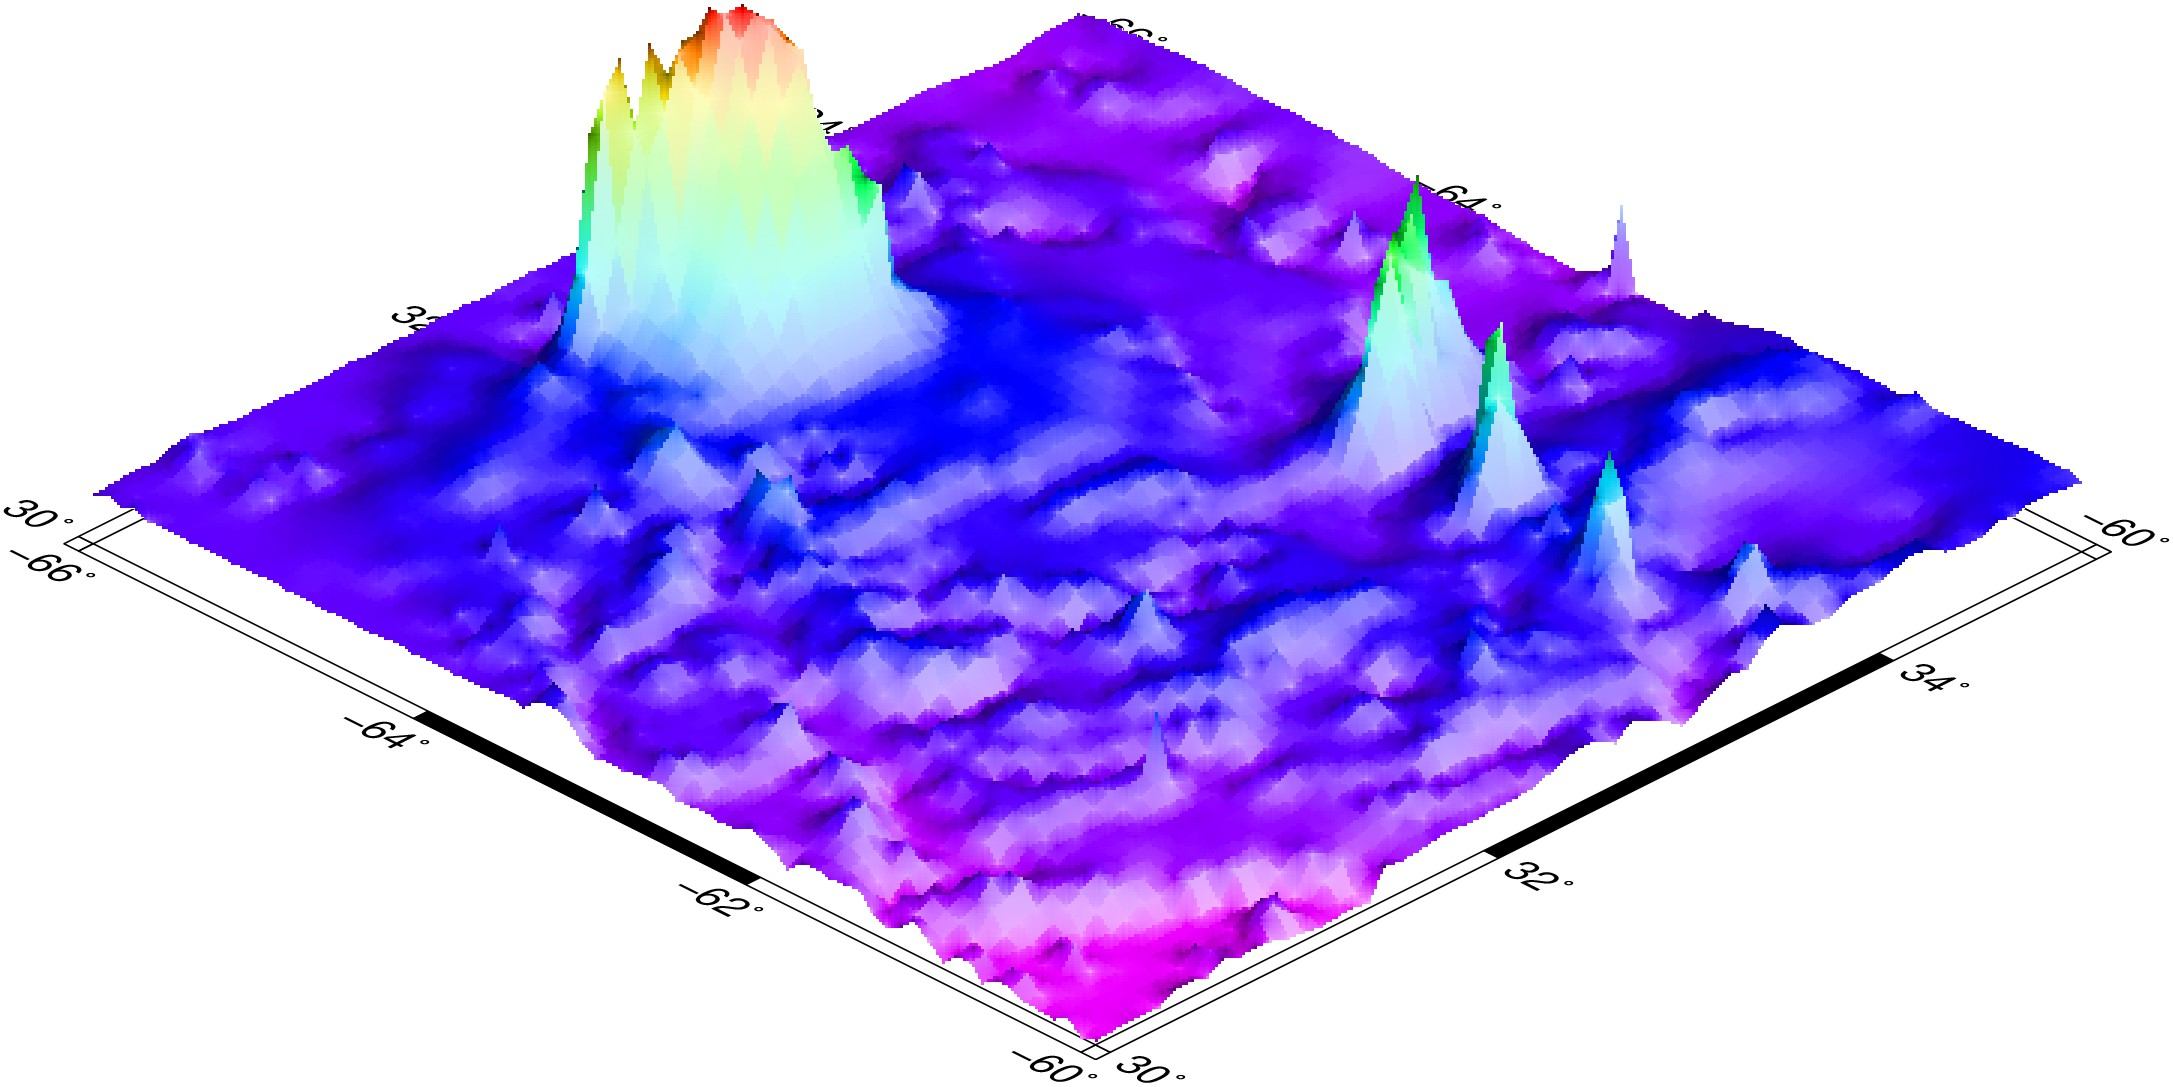
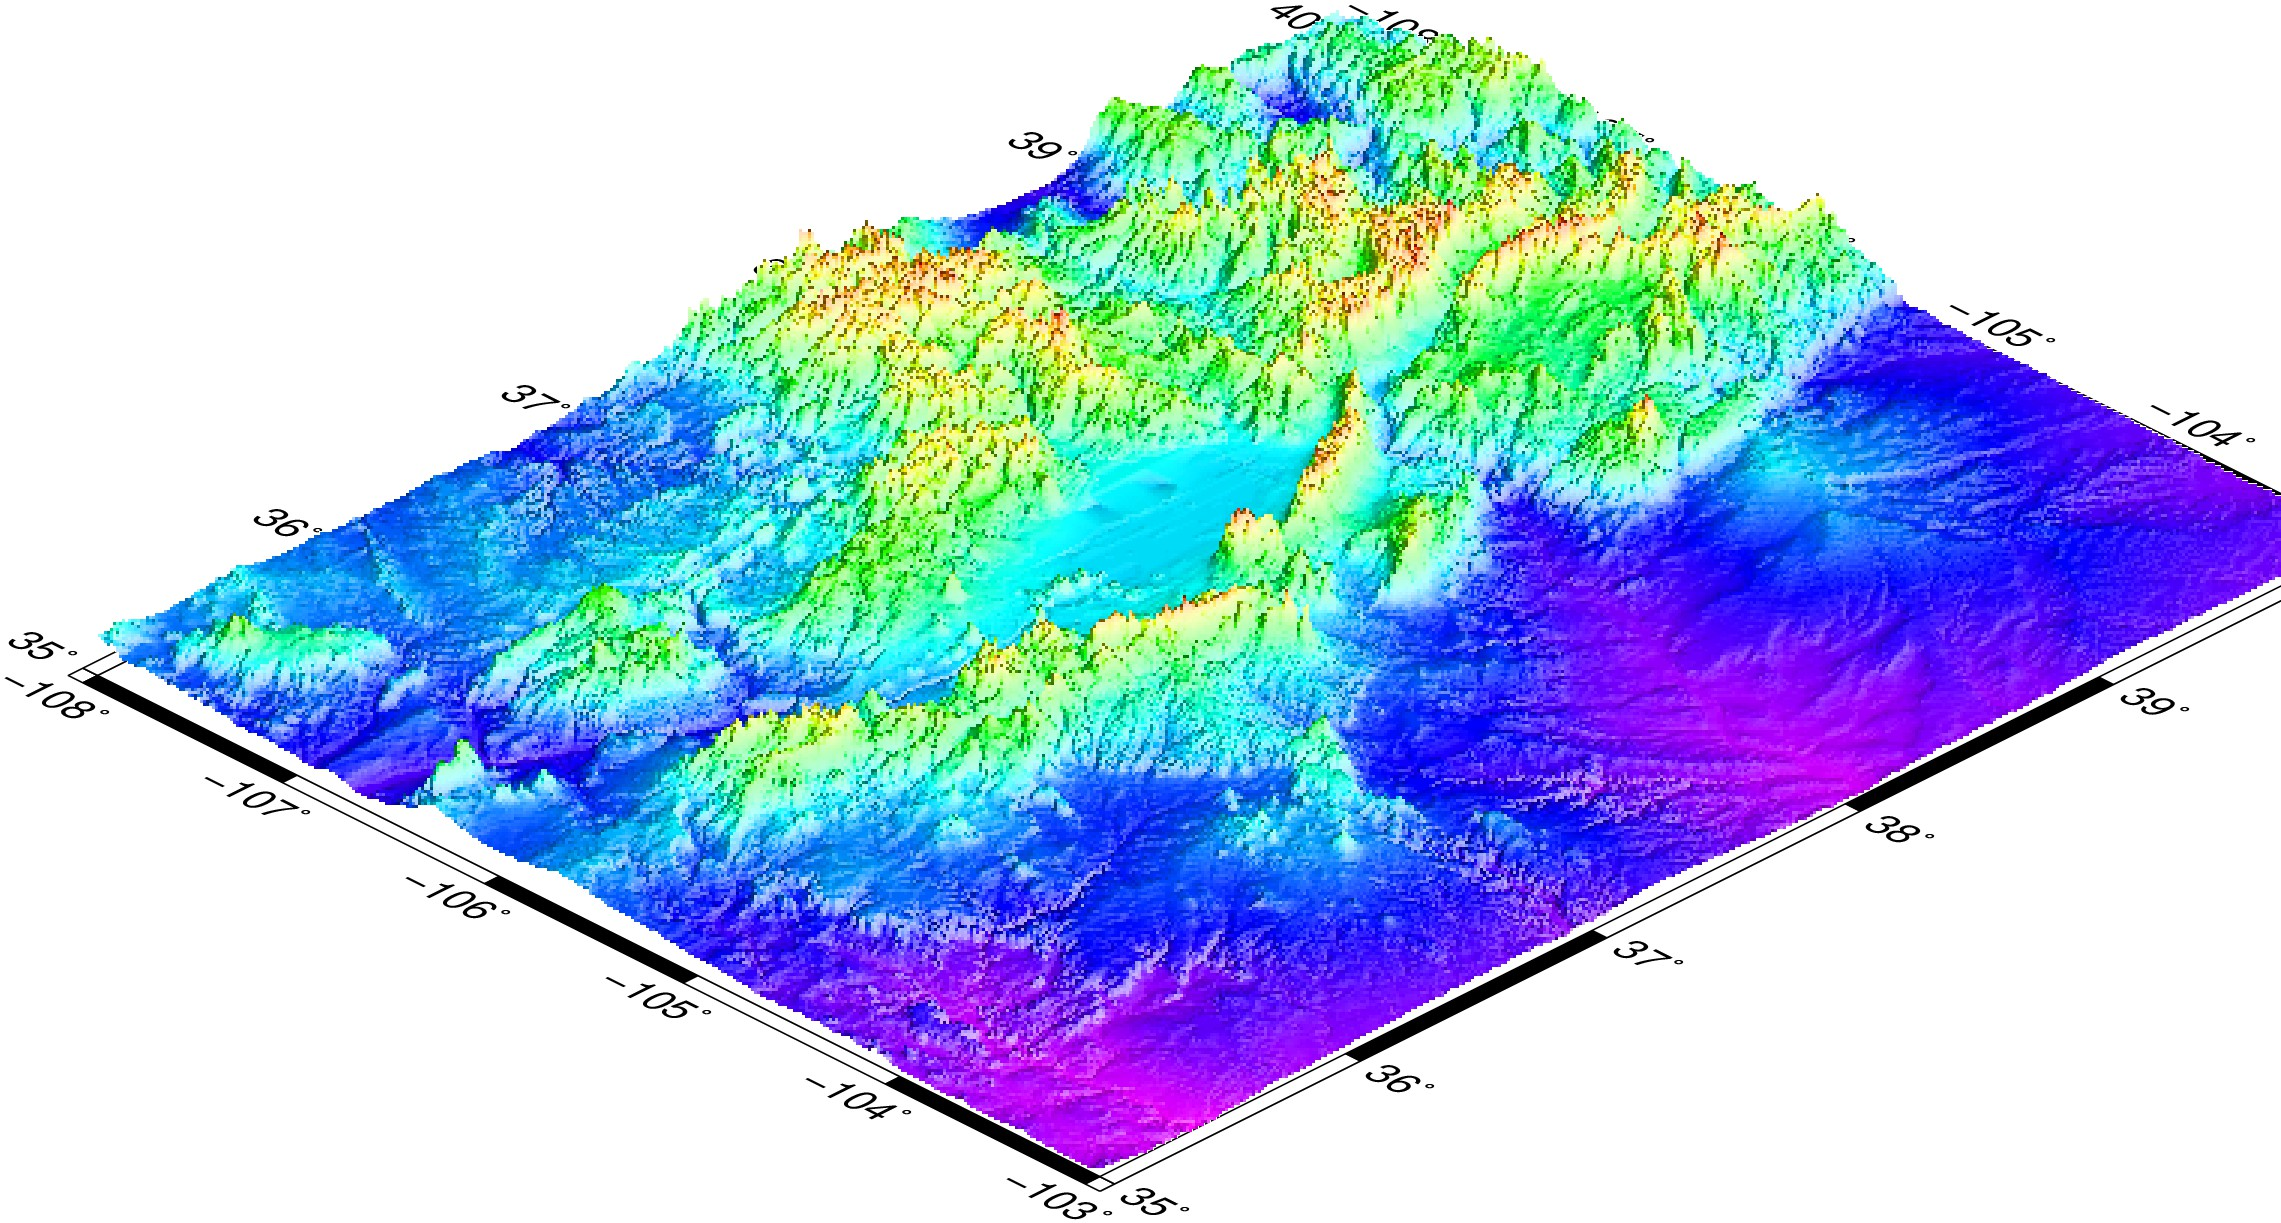
Edit the grdview example

diff --git a/docs/src/examples.md b/docs/src/examples.md
@@ -60,13 +60,10 @@ psscale!(position="jTC+w5i/0.25i+h+o0/-1i", region="@tut_relief.nc", color=topo,
 ## Perspective view
 
 We will make a perspective, color-coded view of the US Rockies from the southeast.
-This plot is pretty crude since we selected 100 dpi but it is fast to render and allows us to try
-alternate values for vantage point and scaling. When we settle on the final values we select
-the appropriate dpi for the final output device and let it rip.
 
 
 ```julia
-grdview(data="@tut_bathy.nc", proj="M12c", JZ="4c", shade="+ne0.8+a100", view="135/30",
+grdview(data="@tut_relief.nc", proj="M12c", JZ="1c", shade="+ne0.8+a100", view="135/30",
         frame="a", fmt="jpg", color="topo", Q="i100", show=1)
 ```
 
